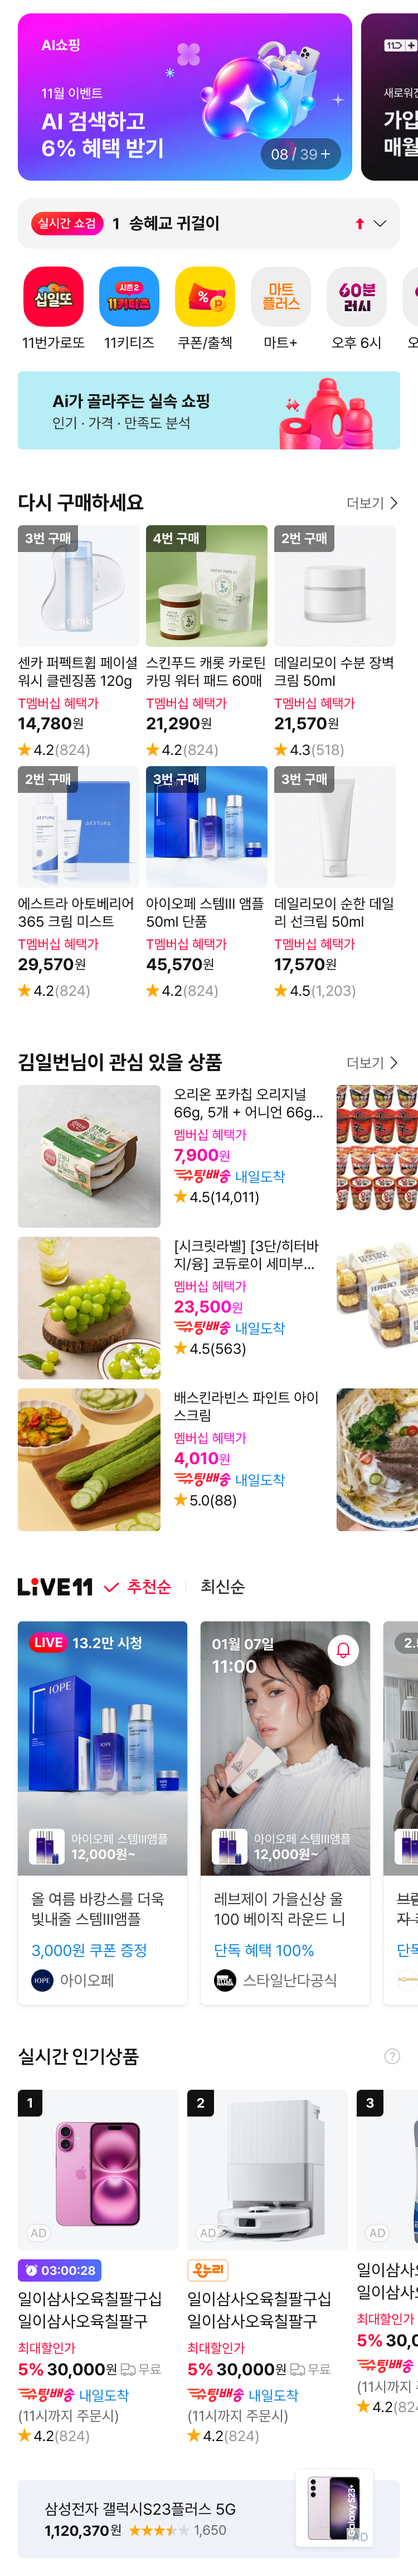
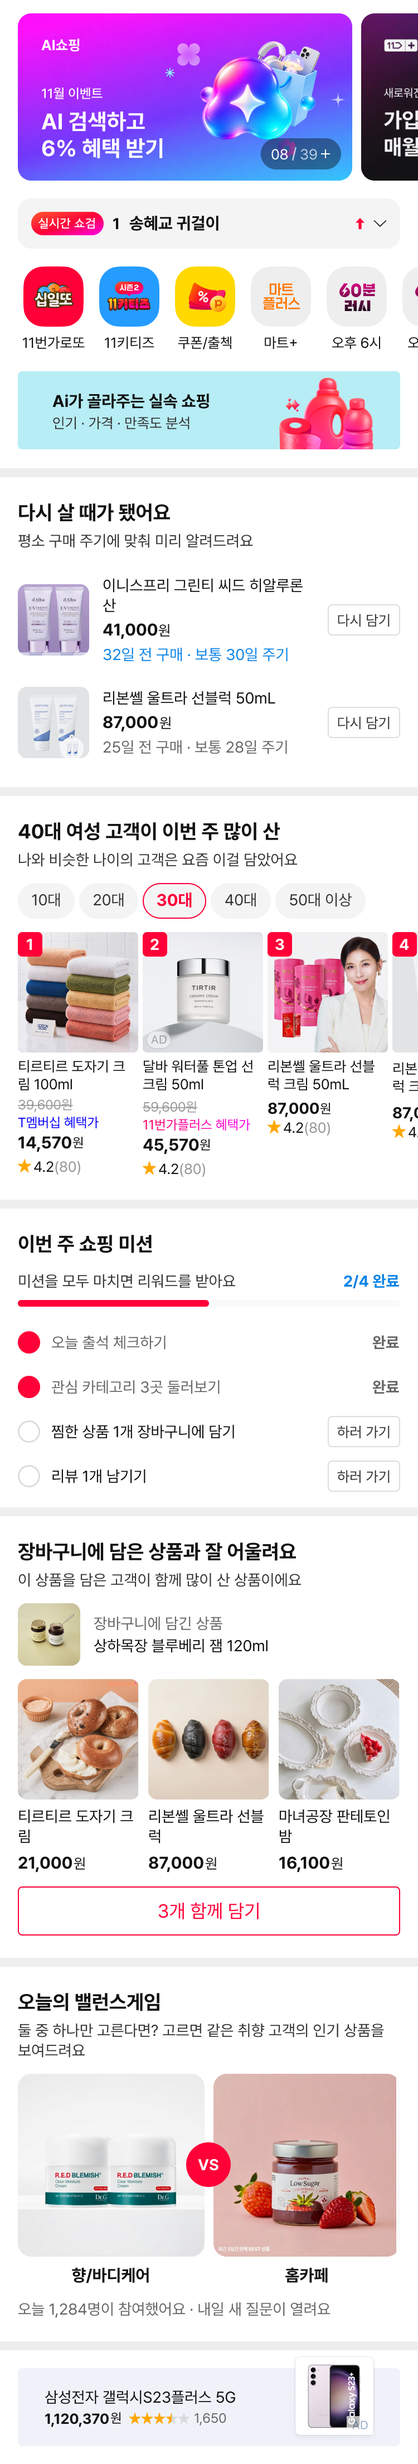
홈 CONTENTS를 Figma 개편안(개인화 추천×게임형)으로 교체
- 홈 4종 콘텐츠 이미지를 2x로 다시 받아 교체
- 라인배너까지 끝까지 스크롤되게 cut 제거, 캐시 버전 v15

diff --git a/index.html b/index.html
@@ -143,12 +143,12 @@ const HOME_STATES = ['home','home_my','home_coupon','home_coupon_my','home_activ
 
 /* 스크롤 화면 구성 (y = 스크롤 0일 때 화면 좌표)
    top: 고정 GNB, items: 스크롤 콘텐츠, bot: 고정 하단(탭바·구매바), init: 처음 스크롤 위치 */
-const V = '?v=14'; // 이미지 바꿀 때 숫자 올리기 (브라우저 캐시 무효화)
+const V = '?v=15'; // 이미지 바꿀 때 숫자 올리기 (브라우저 캐시 무효화)
 const SC = 'img/hd/'; // 모든 이미지는 2x(레티나) — 화면에는 375 폭으로 표시
 // 홈: 상태바만 고정, 네비(검색·프로필·장바구니)는 스크롤과 함께 올라가고, 탭은 상단(44)에 스티키(배경 없음)
 const homeLayout = (n, items) => ({
-  // 홈 콘텐츠는 LIVE11 직전(콘텐츠 y1393)까지만 보이게
-  top:{src:SC+'status_clear.png'}, items:[{src:SC+n+'_head.png', y:0}, ...items.map(it=>/_c\.png$/.test(it.src) ? {...it, cut:1393} : it)], pad:110, // 상태바 배경 없음(글자만)
+  // 홈 콘텐츠: 개인화 추천×게임형 구성(다시 살 때 → 또래 랭킹 → 쇼핑 미션 → 장바구니 짝꿍 → 밸런스게임 → 라인배너) 끝까지 노출
+  top:{src:SC+'status_clear.png'}, items:[{src:SC+n+'_head.png', y:0}, ...items], pad:110, // 상태바 배경 없음(글자만)
   sticky:{src:SC+'home_tabs.png', y:104, stick:44, h:50},
   bot:{src:SC+'tab_home.png', y:693}, toTop:756,
 });
